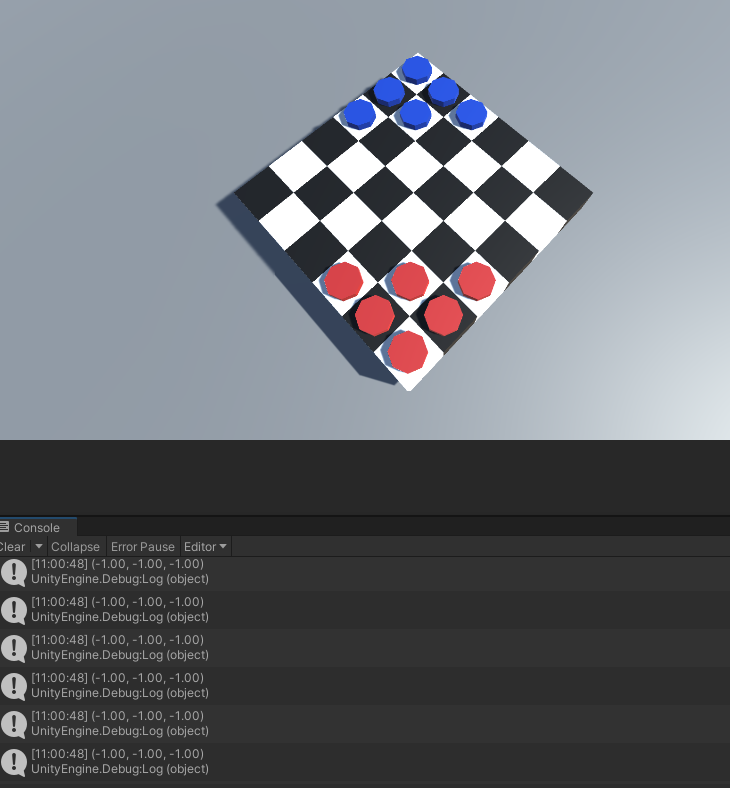
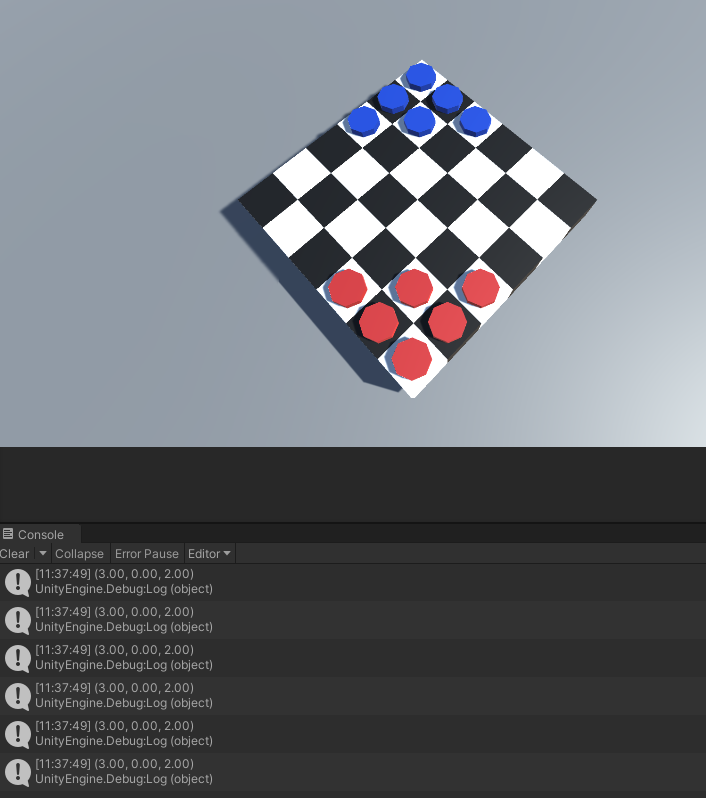
Update zenject setting

Changed region(s): [[0.2805, 0.0609, 0.8414, 0.5178], [0.0, 0.6396, 0.3116, 1.0]]

diff --git a/Assets/Scripts/BoardGenerator.cs b/Assets/Scripts/BoardGenerator.cs
@@ -1,20 +1,36 @@
-using System.Collections;
+ using System.Collections;
 using System.Collections.Generic;
 using UnityEngine;
+using Zenject;
 
 public class BoardGenerator : MonoBehaviour
 {
     const int BOARD_SIZE = 6;
-    [SerializeField]
-    Vector3 _rotation = new Vector3(0, 0, 45);
+    [SerializeField] Vector3 _rotation = new Vector3(0, 0, 45);
 
     [SerializeField] Piece[,] _pieces = new Piece[BOARD_SIZE, BOARD_SIZE];   // 2D array of pieces
-    [SerializeField] GameObject _redPiecePrefab;          // red piece prefab
-    [SerializeField] GameObject _bluePiecePrefab;        // black piece prefab
+    // [SerializeField] GameObject _redPiecePrefab;          // red piece prefab
+    // [SerializeField] GameObject _bluePiecePrefab;        // black piece prefab
     Vector3 _mouseOver;                         // mouse over position
     public Camera _camera;                      // camera in the scene
     [SerializeField] GameObject _boardCube;        // board cube object
     [SerializeField] float _offSite = -0.6f;        // offset for pieces
+
+    private Piece _selectedPiece;               // selected piece
+    private Vector3 _startDrag;                 // start drag position
+    private Vector3 _endDrag;                   // end drag position
+    private Piece.Factory _pieceFactory;
+    [SerializeField] Material _redMaterial;
+    [SerializeField] Material _blueMaterial;
+
+    [Inject]
+    private void Init(
+        Piece.Factory pieceFactory
+    ){
+        _pieceFactory = pieceFactory;
+    }
+
+
     public void ManualStart()
     {
         CreateBoard();
@@ -24,9 +40,43 @@ public class BoardGenerator : MonoBehaviour
     private void Update()
     {
         UpdateMouseOver();
-        Debug.Log(_mouseOver);
+
+        //if it is my turn
+        {
+            int x = (int)_mouseOver.x;
+            int z = (int)_mouseOver.z;
+
+            if (Input.GetMouseButtonDown(0))
+            {
+               SelectPiece(x,z);
+            }
+            if(Input.GetMouseButtonUp(0))
+            {
+                TryMove((int)_startDrag.x, (int)_startDrag.z, x, z);
+            }
+        }
+    }
+    private void TryMove(int x1, int z1, int x2, int z2)
+    {
+       _startDrag = new Vector3(x1, 0, z1);
+        _endDrag = new Vector3(x2, 0, z2);
+        _selectedPiece = _pieces[x1, z1];
+        Debug.Log($"try move _selectedPiece.name {_selectedPiece.name} {x2}, {z2}");
     }
 
+    private void SelectPiece(int x, int z)
+    {
+        //out of bounds
+        if (x < 0 || x >= _pieces.Length || z < 0 || z >= _pieces.Length)
+            return;
+        Piece p = _pieces[x, z];
+        if (p != null)
+        {
+            _selectedPiece = p;
+            _startDrag = _mouseOver;
+            Debug.Log($"_selectedPiece.name {_selectedPiece.name} {x}, {z}" );
+        }
+    }
     private void UpdateMouseOver()
     {
         if(_camera == null)
@@ -73,12 +123,14 @@ public class BoardGenerator : MonoBehaviour
                 // create red pieces when {0,1}, {0,1}, {0,2},{1,0},{1,1},{2,0}
                 if (j < redRowLimit)
                 {
-                    GeneratePieces(i, j, quad, _redPiecePrefab);
+                    GeneratePieces(i, j, quad, _redMaterial);
+                   
                 }
                 // create blue pieces when {3,5},{4,4},{4,5},{5,3},{5,4},{5,5}
                 else if (j >= BOARD_SIZE - blueRowLimit)
                 {
-                    GeneratePieces(i, j, quad, _bluePiecePrefab);
+                    // GeneratePieces(i, j, quad, _bluePieceFactory);
+                    GeneratePieces(i, j, quad, _blueMaterial);
                 }
 
             }
@@ -93,8 +145,9 @@ public class BoardGenerator : MonoBehaviour
         transform.localRotation = Quaternion.Euler(_rotation);
     }
 
-    private void GeneratePieces(int i, int j, GameObject quad, GameObject piecePrefab)
+    private void GeneratePieces(int i, int j, GameObject quad, Material material)
     {
-        _pieces[i, j] = Instantiate(piecePrefab, new Vector3(i, j, _offSite), Quaternion.identity, quad.transform).GetComponent<Piece>();
+        // _pieces[i, j] = Instantiate(piecePrefab, new Vector3(i, j, _offSite), Quaternion.identity, quad.transform).GetComponent<Piece>();
+        _pieces[i, j] = _pieceFactory.Create(new Vector3(i, j, _offSite), Quaternion.identity, quad.transform, material);
     }
 }

diff --git a/Assets/Scripts/Zenject/GameInstaller.cs b/Assets/Scripts/Zenject/GameInstaller.cs
@@ -4,14 +4,11 @@ using Zenject;
 public class GameInstaller : MonoInstaller
 {
     [SerializeField] GameObject _boardGeneratorPrefab;
-    [SerializeField] GameObject _redPiecePrefab;
-    [SerializeField] GameObject _bluePiecePrefab;
+    [SerializeField] GameObject _piecePrefab;
 
     public override void InstallBindings()
     {
         Container.Bind<BoardGenerator>().FromComponentInNewPrefab(_boardGeneratorPrefab).AsSingle();
-        Container.BindFactory<Piece, Piece.Factory>().FromComponentInNewPrefab(_redPiecePrefab);
-        Container.BindFactory<Piece, Piece.Factory>().FromComponentInNewPrefab(_bluePiecePrefab);
-
+        Container.BindFactory<Vector3, Quaternion, Transform, Material, Piece, Piece.Factory>().FromComponentInNewPrefab(_piecePrefab).AsSingle();
     }
 }

diff --git a/Assets/Scripts/Piece.cs b/Assets/Scripts/Piece.cs
@@ -5,5 +5,15 @@ using Zenject;
 
 public class Piece : MonoBehaviour
 {
- public class Factory : PlaceholderFactory<Piece> { }
+
+    [Inject]
+    private void initialize(Vector3 vec3, Quaternion quat, Transform trans, Material mat)
+    {
+        transform.localPosition = vec3;
+        transform.SetParent(trans);
+        // change the material
+        GetComponent<Renderer>().material = mat;
+    }
+
+ public class Factory : PlaceholderFactory<Vector3,Quaternion,Transform, Material,Piece> { }
 }
